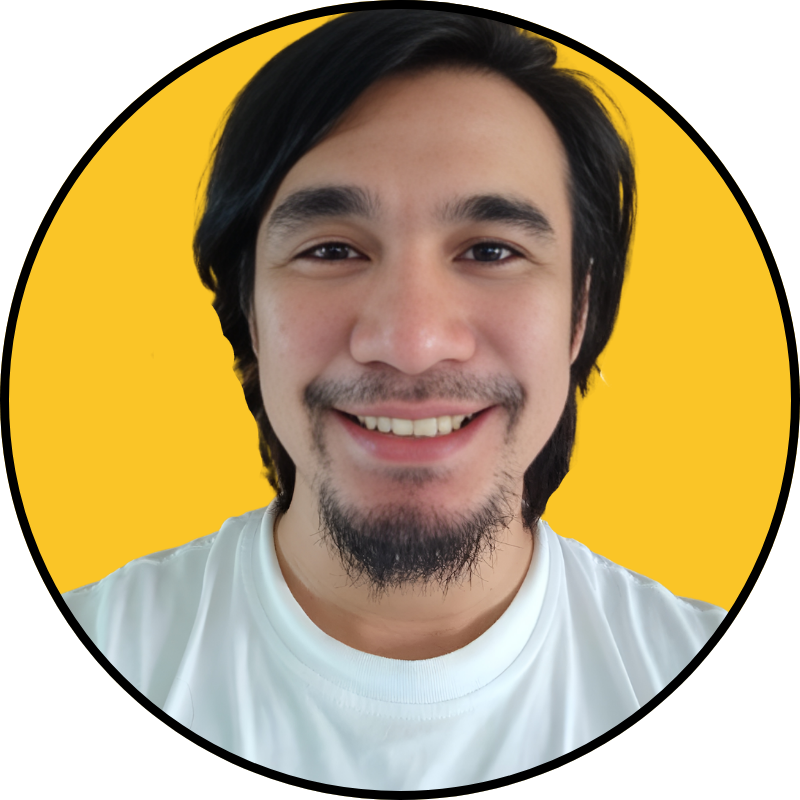
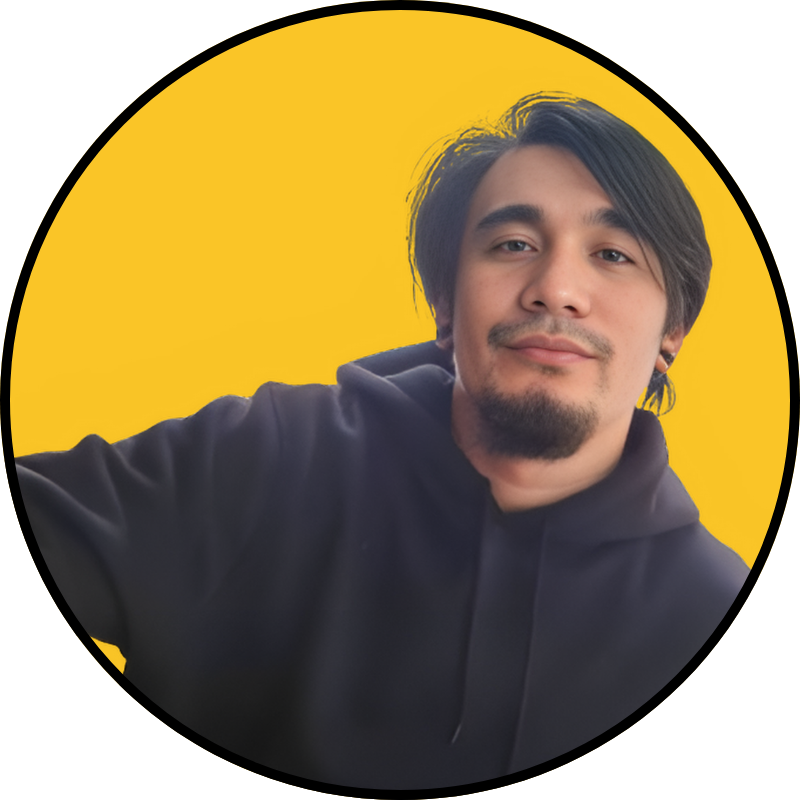
Change Raymond picture and added button class for the form

diff --git a/index.html b/index.html
@@ -313,7 +313,7 @@
           </div>
           <div class="g-recaptcha" data-sitekey="6LdHmWQpAAAAACGUoxY-8-ZQSBPvtgot0YQJYdtv"></div>
 
-          <button type="button" onclick="submitForm()">Submit</button>
+          <button class ="btn btn-primary" type="button" onclick="submitForm()">Submit</button>
         </div>
       </div>
     </div>
